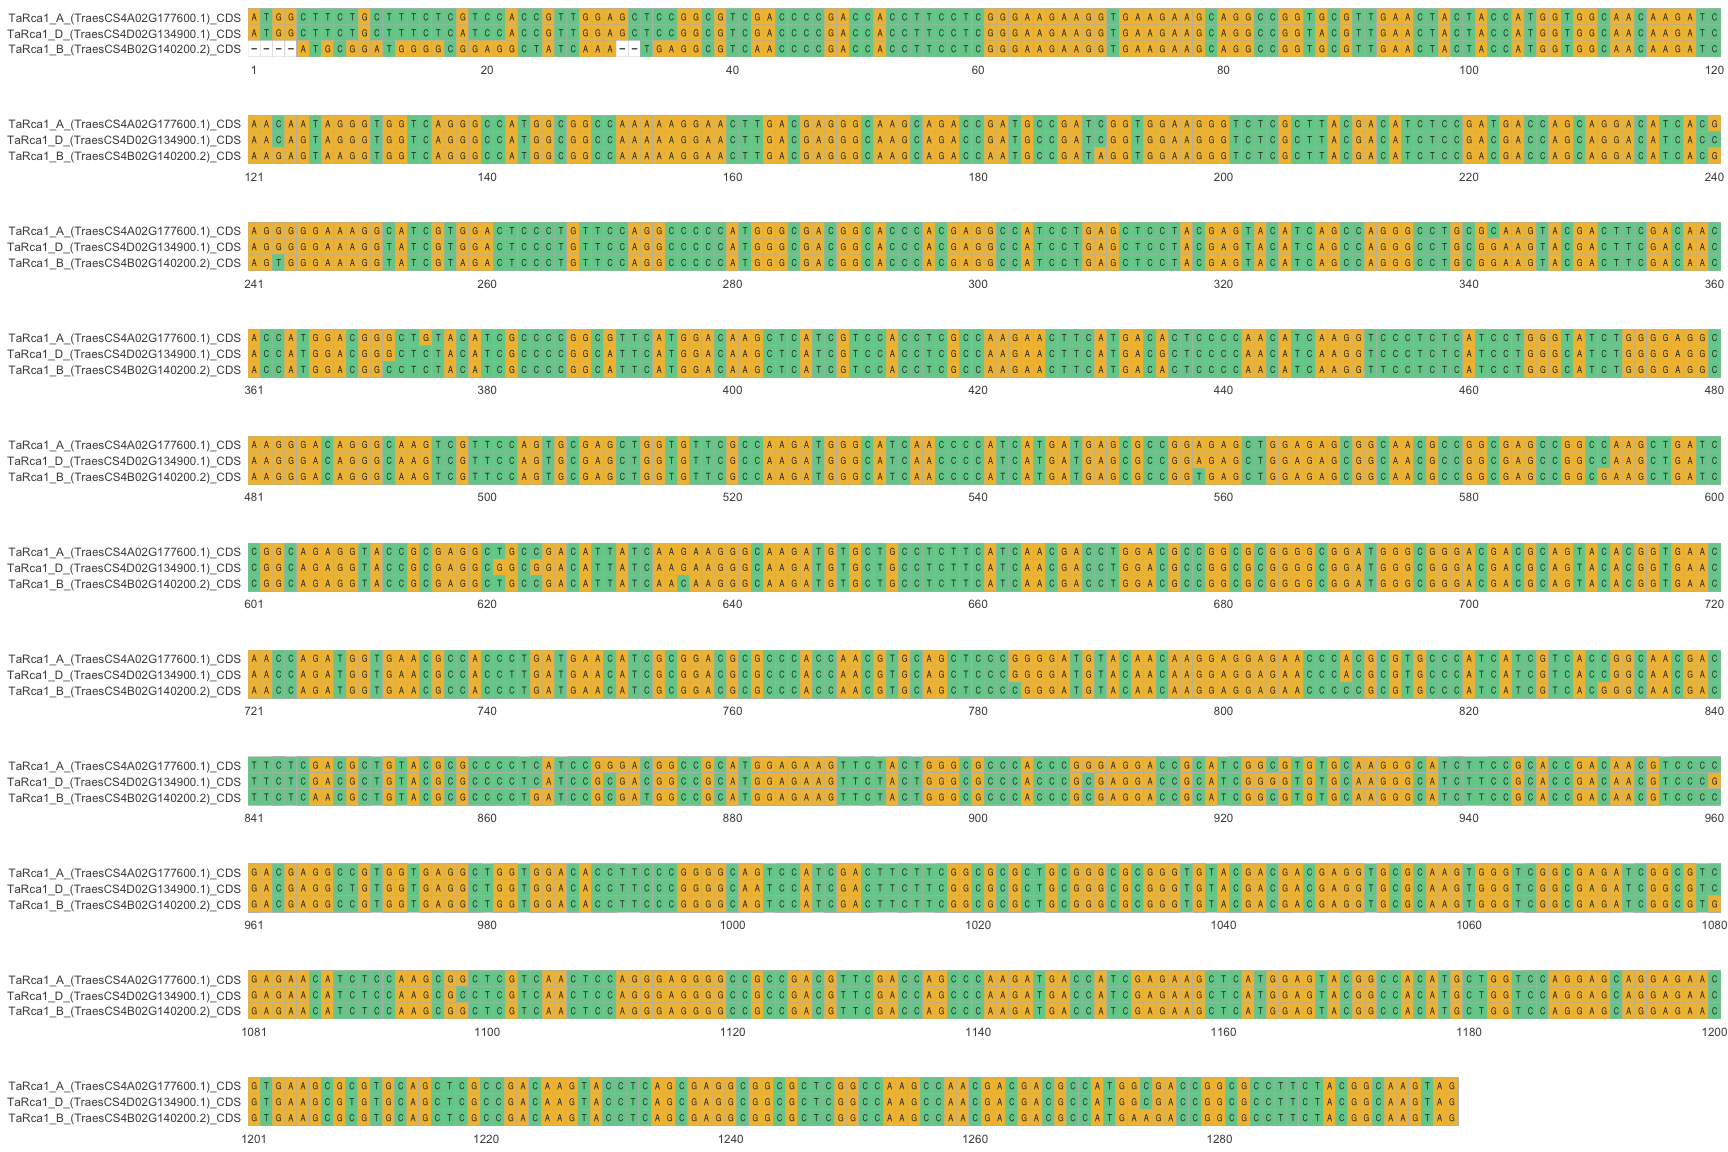
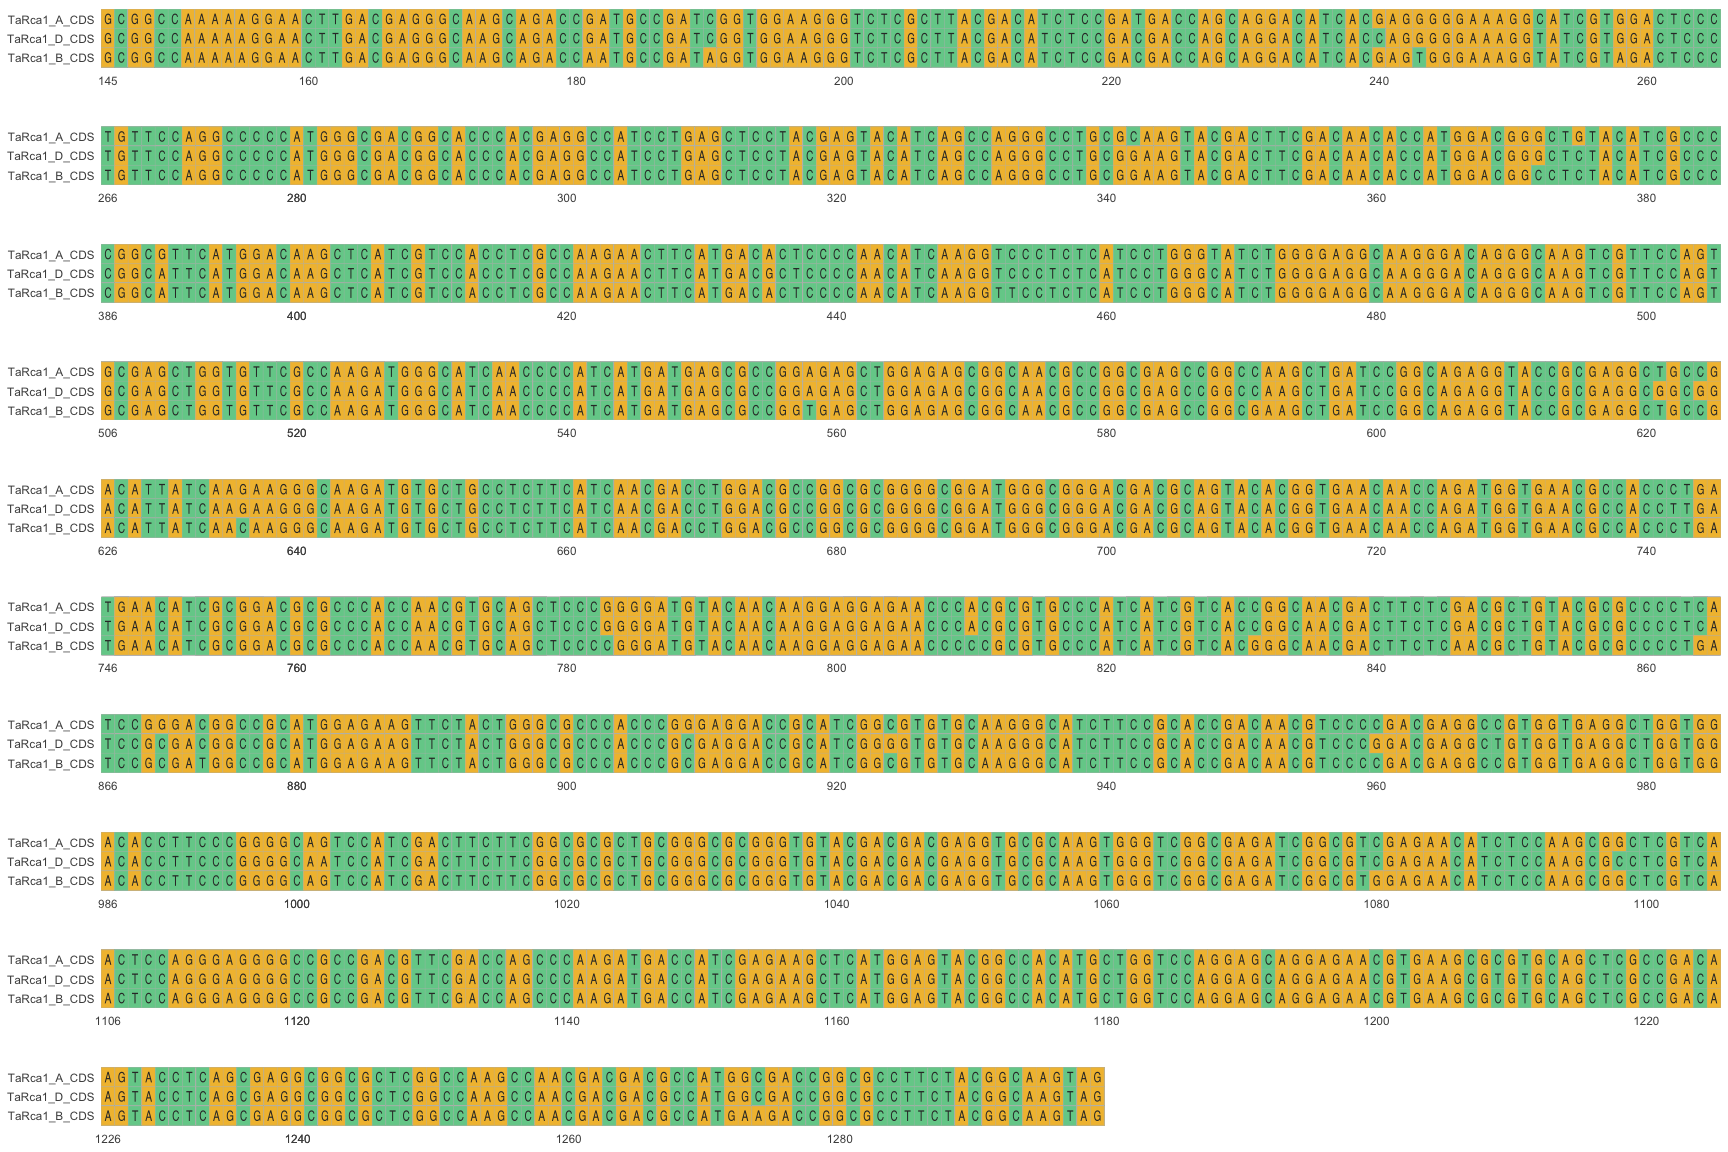
Updated ggmsa call to remove TP from CDS and AA alignment

diff --git a/Align and Visualise Sequences in R/Align-and-Visualise-Sequences-in-R.md b/Align and Visualise Sequences in R/Align-and-Visualise-Sequences-in-R.md
@@ -55,9 +55,9 @@ Rca1_CDS
 
     ## DNAStringSet object of length 3:
     ##     width seq                                               names               
-    ## [1]  1299 ATGGCTTCTGCTTTCTCGTCCAC...CCGGCGCCTTCTACGGCAAGTAG TaRca1_A_(TraesCS...
-    ## [2]  1293 ATGCGGATGGGGCGGAGGCTATC...CCGGCGCCTTCTACGGCAAGTAG TaRca1_B_(TraesCS...
-    ## [3]  1299 ATGGCTTCTGCTTTCTCATCCAC...CCGGCGCCTTCTACGGCAAGTAG TaRca1_D_(TraesCS...
+    ## [1]  1299 ATGGCTTCTGCTTTCTCGTCCAC...CCGGCGCCTTCTACGGCAAGTAG TaRca1_A_CDS
+    ## [2]  1293 ATGCGGATGGGGCGGAGGCTATC...CCGGCGCCTTCTACGGCAAGTAG TaRca1_B_CDS
+    ## [3]  1299 ATGGCTTCTGCTTTCTCATCCAC...CCGGCGCCTTCTACGGCAAGTAG TaRca1_D_CDS
 
 ## Align the Sequences
 
@@ -85,9 +85,9 @@ Rca1_CDS_Alignment
     ## 
     ## MsaDNAMultipleAlignment with 3 rows and 1299 columns
     ##     aln                                                    names
-    ## [1] ATGGCTTCTGCTTTCTCGTCCACCGT...GACCGGCGCCTTCTACGGCAAGTAG TaRca1_A_(TraesCS...
-    ## [2] ATGGCTTCTGCTTTCTCATCCACCGT...GACCGGCGCCTTCTACGGCAAGTAG TaRca1_D_(TraesCS...
-    ## [3] ----ATGCGGATGGGGCGGAGGCTAT...GACCGGCGCCTTCTACGGCAAGTAG TaRca1_B_(TraesCS...
+    ## [1] ATGGCTTCTGCTTTCTCGTCCACCGT...GACCGGCGCCTTCTACGGCAAGTAG TaRca1_A_CDS
+    ## [2] ATGGCTTCTGCTTTCTCATCCACCGT...GACCGGCGCCTTCTACGGCAAGTAG TaRca1_D_CDS
+    ## [3] ----ATGCGGATGGGGCGGAGGCTAT...GACCGGCGCCTTCTACGGCAAGTAG TaRca1_B_CDS
     ## Con ATGGCTTCTGCTTTCTCGTCCACCGT...GACCGGCGCCTTCTACGGCAAGTAG Consensus
 
 ## Reformat the Alignment
@@ -105,9 +105,9 @@ Rca1_CDS_Alignment
 
     ## DNAStringSet object of length 3:
     ##     width seq                                               names               
-    ## [1]  1299 ATGGCTTCTGCTTTCTCGTCCAC...CCGGCGCCTTCTACGGCAAGTAG TaRca1_A_(TraesCS...
-    ## [2]  1299 ATGGCTTCTGCTTTCTCATCCAC...CCGGCGCCTTCTACGGCAAGTAG TaRca1_D_(TraesCS...
-    ## [3]  1299 ----ATGCGGATGGGGCGGAGGC...CCGGCGCCTTCTACGGCAAGTAG TaRca1_B_(TraesCS...
+    ## [1]  1299 ATGGCTTCTGCTTTCTCGTCCAC...CCGGCGCCTTCTACGGCAAGTAG TaRca1_A_CDS
+    ## [2]  1299 ATGGCTTCTGCTTTCTCATCCAC...CCGGCGCCTTCTACGGCAAGTAG TaRca1_D_CDS
+    ## [3]  1299 ----ATGCGGATGGGGCGGAGGC...CCGGCGCCTTCTACGGCAAGTAG TaRca1_B_CDS
 
 ## Visualise the Alignment
 
@@ -119,7 +119,7 @@ point, so you can visualize just part of your alignment if you wish.
 this example.
 
 ``` r
-ggmsa(Rca1_CDS_Alignment, 0, 1299, char_width = 0.45, seq_name = TRUE) +
+ggmsa(Rca1_CDS_Alignment, 145, 1299, char_width = 0.55, seq_name = TRUE) +
   facet_msa(field = 120)
 ```
 
@@ -144,7 +144,7 @@ Rca1_AA_Alignment <- msa(Rca1_AA)
 ``` r
 Rca1_AA_Alignment <- AAStringSet(Rca1_AA_Alignment)
 
-ggmsa(Rca1_AA_Alignment, 0, 433, char_width = 0.45, seq_name = TRUE) +
+ggmsa(Rca1_AA_Alignment, 49, 433, char_width = 0.55, seq_name = TRUE) +
   facet_msa(field = 60)
 ```
 
